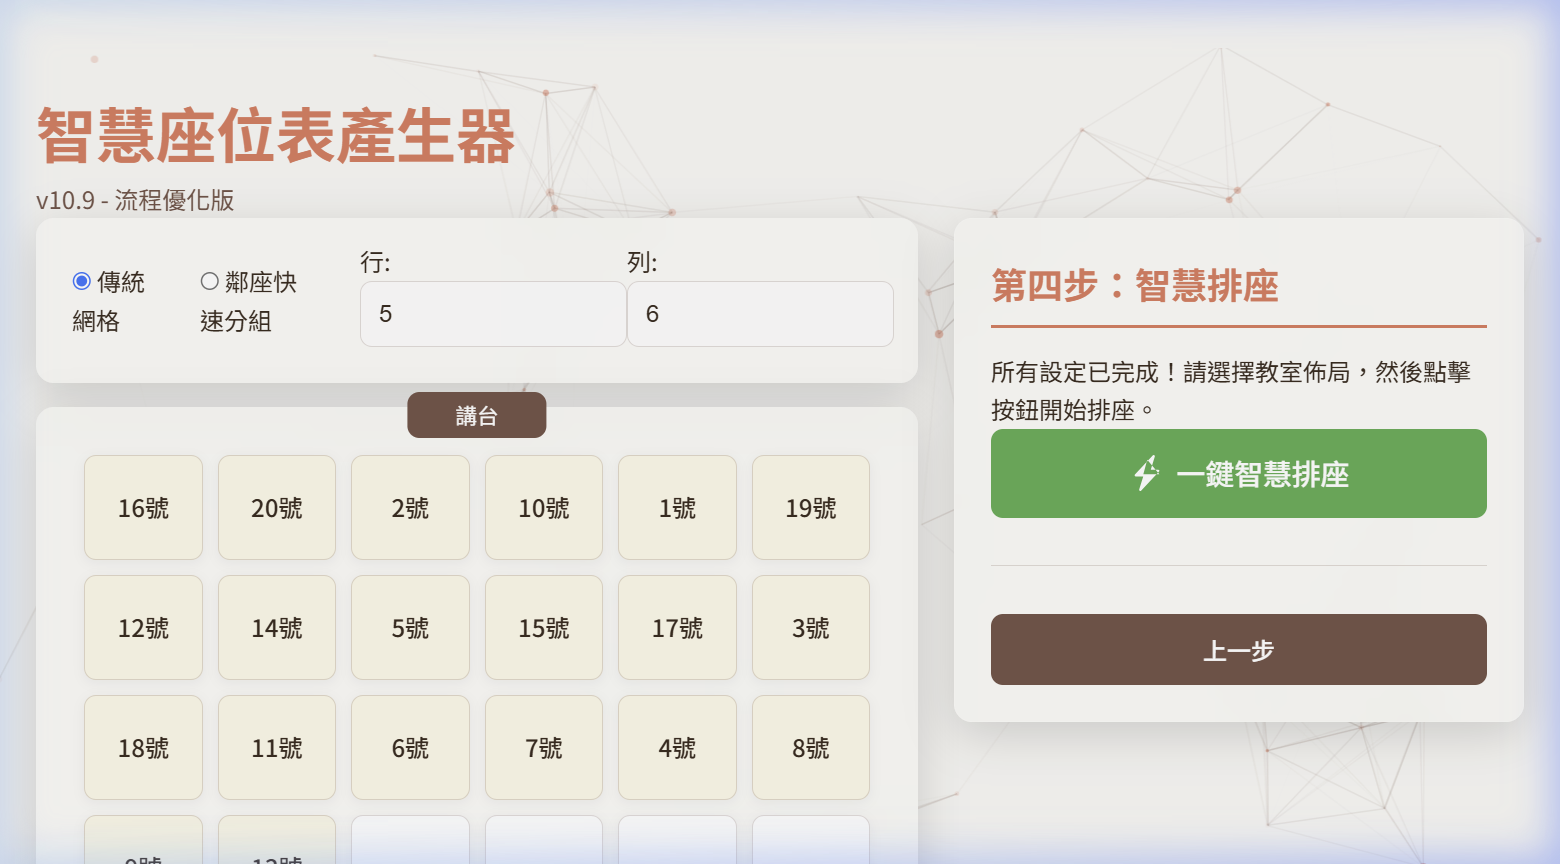
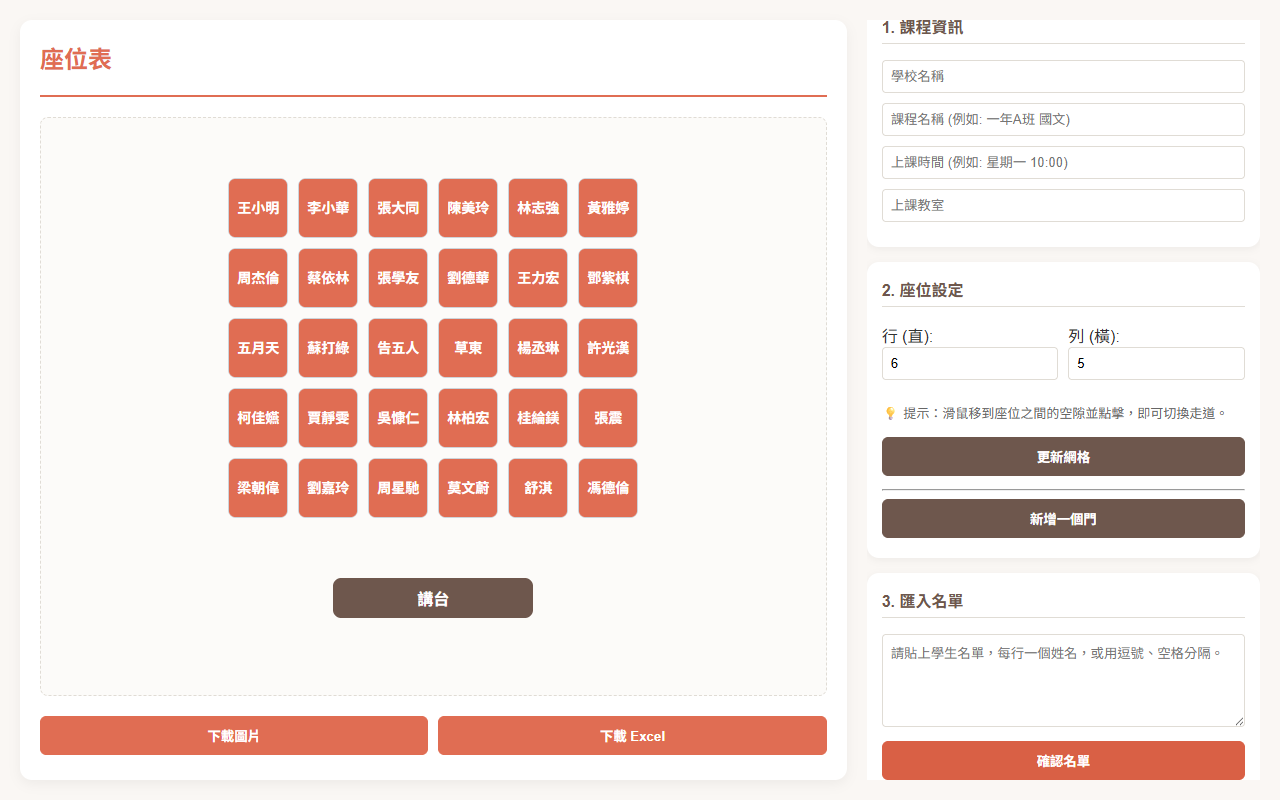
Update manual screenshots and text to match current UI

diff --git a/manual.html b/manual.html
@@ -21,12 +21,11 @@
     <p>一開始，您可以在右側面板設定<strong>課程資訊</strong>（如學校、課程、時間、教室）。<br>
     接著在<strong>座位設定</strong>區塊，輸入您需要的「行」與「列」數，然後點擊「<strong>更新網格</strong>」。</p>
 
-    <h2>2. 匯入名單與自動排座</h2>
-    <p>您可以將學生名單貼入文字方塊中（每行一個名字），然後點擊「<strong>產生學生名單</strong>」。</p>
+    <h2>2. 匯入名單與排座</h2>
+    <p>您可以將學生名單貼入文字方塊中（每行一個名字），然後點擊「<strong>確認名單</strong>」。</p>
     <ul>
-        <li>您可以用滑鼠（或在平板上用手指）將學生拖曳到任何座位上。</li>
-        <li>或者點擊「<strong>自動分配座位 (S型)</strong>」來一鍵填滿座位。</li>
-        <li>也可以點擊「<strong>相鄰分組模式</strong>」來自動把相鄰的座位兩兩一組！</li>
+        <li>您可以用滑鼠（或在平板上用手指）將學生從待安排區拖曳到任何座位上。</li>
+        <li>您也可以隨時拖曳交換兩個學生的位置！</li>
     </ul>
     
     <img src="docs/ui_students.png" alt="安排學生">

diff --git a/manual.md b/manual.md
@@ -8,11 +8,10 @@
 一開始，您可以在右側面板設定**課程資訊**（如學校、課程、時間、教室）。
 接著在**座位設定**區塊，輸入您需要的「行」與「列」數，然後點擊「**更新網格**」。
 
-## 2. 匯入名單與自動排座
-您可以將學生名單貼入文字方塊中（每行一個名字），然後點擊「**產生學生名單**」。
-- 您可以用滑鼠（或在平板上用手指）將學生拖曳到任何座位上。
-- 或者點擊「**自動分配座位 (S型)**」來一鍵填滿座位。
-- 也可以點擊「**相鄰分組模式**」來自動把相鄰的座位兩兩一組！
+## 2. 匯入名單與排座
+您可以將學生名單貼入文字方塊中（每行一個名字），然後點擊「**確認名單**」。
+- 您可以用滑鼠（或在平板上用手指）將學生從待安排區拖曳到任何座位上。
+- 您也可以隨時拖曳交換兩個學生的位置！
 
 ![安排學生](docs/ui_students.png)
 
